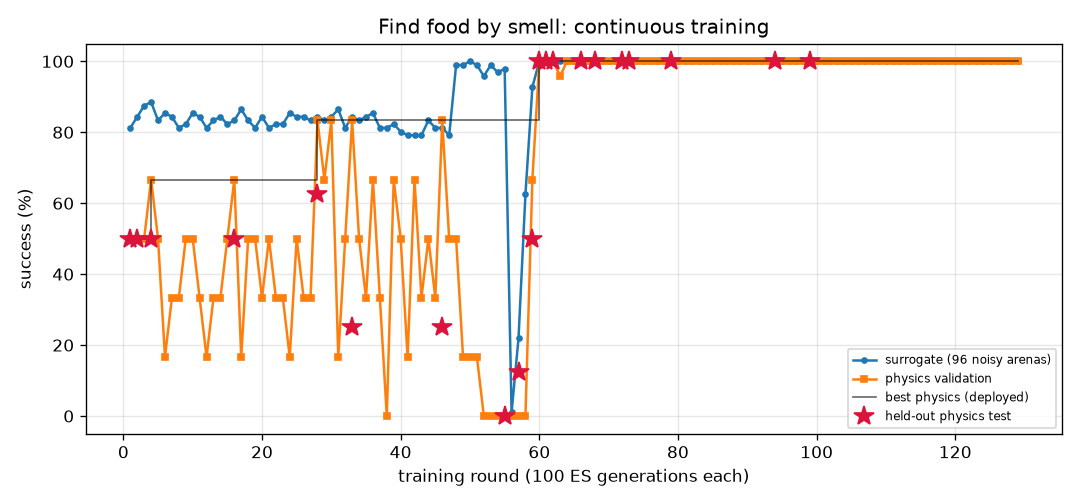
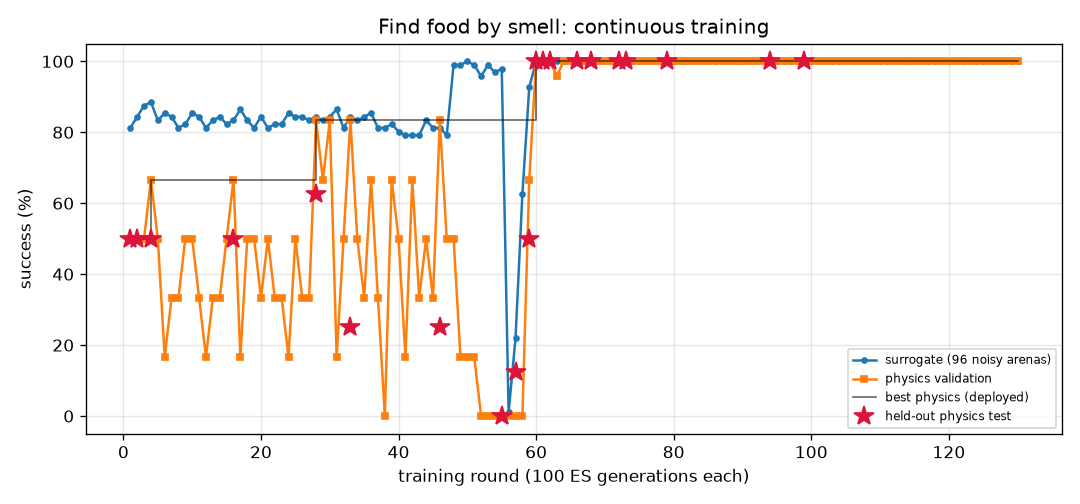
FlyLab: continuous training progress
- walk_forward: optimal, physics val 100% of 24, round 155
- turn: optimal, physics val 100% of 24, round 603
- goto: optimal, physics val 100% of 24, round 141
- odor_seek: optimal, physics val 100% of 24, round 130
- odor_avoid: optimal, physics val 100% of 24, round 576
- light_seek: optimal, physics val 100% of 24, round 325
- light_avoid: optimal, physics val 100% of 24, round 310

diff --git a/projects/09_flylab/training/turn/REPORT.md b/projects/09_flylab/training/turn/REPORT.md
@@ -1,14 +1,14 @@
 # Turn in place (`turn`) — training report
 
-*Auto-generated by `train_brains.py`, last updated 2026-10-21T20:47:12.*
+*Auto-generated by `train_brains.py`, last updated 2026-10-22T19:18:32.*
 
 ![curve](curve.png)
 
 | | |
 |---|---|
-| rounds | 595 |
-| ES generations | 59500 |
-| physics runs | 14526 |
+| rounds | 603 |
+| ES generations | 60300 |
+| physics runs | 14718 |
 | status | **optimal** |
 | best brain | round 80: physics validation **100%** on 24 arenas, surrogate 100% |
 | held-out physics test | **97%** on 32 unseen arenas (95% CI 84%-99%) (errors: [1.6, 3.3, 6.3, 3.7, 1.1, 0.4, 2.4, 2.9, 0.1, 2.6, 0.5, 2.7, 1.5, 3.1, 4.5, 0.2, 0.5, 1.1, 2.0, 4.4, 2.8, 3.2, 0.3, 2.2, 0.5, 3.0, 0.3, 5.4, 0.4, 1.0, 4.7, 10.7]) |
@@ -17,14 +17,6 @@ Physics error per arena: deg from target heading (< 20 = success).
 
 | round | level | gens | sigma | surrogate | physics val | val errors | test | note |
 |---:|---:|---:|---:|---:|---:|---|---:|---|
-| 556 | 3 | 55600 | 0.025 | 99% | 75% | [5.5, 7.0, 0.4, 2.1, 3.3, 1.6, 2.4, 0.2, 4.0, 1.3, 2.8, 1.5, 3.7, 3.8, 3.1, 1.9, 1.8, 0.2, 2.1, 0.8, 7.5, 0.7, 4.6, 3.8] |  | restart from best |
-| 557 | 3 | 55700 | 0.024 | 99% | 100% | [5.7, 9.7, 1.0, 2.6, 2.0, 2.3, 1.7, 1.5, 3.2, 1.4, 1.6, 1.9, 0.2, 4.7, 1.1, 2.9, 2.1, 2.7, 2.6, 2.8, 4.6, 0.2, 0.5, 0.8] |  |  |
-| 558 | 3 | 55800 | 0.025 | 99% | 88% | [2.9, 3.0, 7.0, 0.4, 16.1, 0.9, 8.3, 8.4, 7.7, 3.1, 5.1, 4.5, 0.7, 0.7, 4.8, 14.3, 4.8, 3.0, 8.6, 13.3, 1.6, 4.2, 7.3, 5.9] |  |  |
-| 559 | 3 | 55900 | 0.025 | 99% | 88% | [7.3, 3.4, 7.5, 3.0, 4.3, 0.2, 4.5, 6.0, 3.3, 0.0, 5.1, 1.1, 2.4, 0.7, 2.9, 0.5, 1.6, 2.1, 0.8, 1.9, 6.5, 3.9, 5.6, 6.5] |  |  |
-| 560 | 3 | 56000 | 0.025 | 99% | 83% | [1.2, 1.7, 1.4, 1.7, 1.6, 1.4, 6.5, 8.6, 5.4, 4.0, 4.2, 3.5, 4.4, 0.6, 5.5, 11.8, 3.8, 2.5, 2.1, 2.0, 3.4, 2.3, 6.5, 5.7] |  | restart from best |
-| 561 | 3 | 56100 | 0.024 | 98% | 83% | [8.2, 11.9, 4.7, 4.8, 2.5, 1.9, 4.1, 2.2, 2.0, 2.3, 2.9, 4.9, 3.1, 6.0, 0.6, 3.5, 4.5, 0.6, 2.9, 1.9, 8.4, 0.7, 1.1, 0.1] |  |  |
-| 562 | 3 | 56200 | 0.025 | 98% | 79% | [6.6, 10.2, 6.1, 2.1, 3.3, 0.0, 1.7, 0.4, 3.1, 3.2, 1.7, 2.6, 2.1, 1.5, 1.8, 0.5, 2.6, 1.7, 0.6, 1.6, 6.4, 1.5, 2.5, 6.1] |  |  |
-| 563 | 3 | 56300 | 0.025 | 97% | 92% | [7.8, 12.0, 7.6, 6.8, 4.3, 1.9, 1.3, 5.5, 0.0, 3.6, 0.6, 4.2, 1.7, 7.9, 0.3, 5.3, 4.7, 2.5, 4.6, 4.7, 9.1, 1.2, 0.9, 10.8] |  |  |
 | 564 | 3 | 56400 | 0.026 | 98% | 92% | [5.1, 9.8, 9.9, 2.8, 3.5, 2.3, 3.8, 4.6, 2.0, 0.2, 3.1, 2.8, 4.1, 4.4, 3.2, 1.6, 2.5, 1.3, 1.4, 0.1, 7.3, 0.5, 0.7, 2.1] |  | restart from best |
 | 565 | 3 | 56500 | 0.024 | 100% | 83% | [3.5, 0.1, 4.9, 0.1, 0.9, 0.0, 6.0, 7.3, 7.7, 0.2, 5.1, 0.6, 0.5, 0.3, 4.2, 2.4, 0.5, 2.4, 2.6, 3.9, 5.0, 2.4, 6.2, 8.0] |  |  |
 | 566 | 3 | 56600 | 0.024 | 99% | 71% | [6.7, 7.4, 3.7, 1.2, 2.9, 2.5, 4.3, 1.1, 5.6, 13.8, 3.7, 2.2, 0.3, 0.2, 5.4, 0.5, 2.0, 1.8, 0.0, 1.1, 5.5, 2.1, 5.0, 6.9] |  |  |
@@ -57,3 +49,11 @@ Physics error per arena: deg from target heading (< 20 = success).
 | 593 | 3 | 59300 | 0.024 | 99% | 75% | [5.4, 8.0, 7.9, 2.9, 2.0, 2.3, 3.6, 4.5, 2.7, 2.1, 3.3, 1.3, 1.8, 4.0, 3.7, 1.0, 0.6, 0.4, 4.3, 1.2, 7.3, 0.4, 5.4, 6.2] |  |  |
 | 594 | 3 | 59400 | 0.025 | 99% | 67% | [6.7, 1.2, 2.0, 0.6, 12.3, 1.4, 7.3, 3.0, 6.8, 1.3, 5.6, 0.4, 0.0, 1.6, 5.5, 2.5, 0.1, 1.5, 0.5, 0.7, 6.2, 1.3, 5.8, 5.4] |  |  |
 | 595 | 3 | 59500 | 0.025 | 99% | 83% | [4.5, 2.8, 5.4, 0.3, 0.5, 1.7, 4.9, 6.4, 5.2, 2.1, 5.0, 1.0, 0.6, 1.8, 4.2, 2.0, 1.7, 1.9, 0.5, 2.5, 5.9, 2.9, 5.3, 7.4] |  |  |
+| 596 | 3 | 59600 | 0.025 | 98% | 88% | [7.0, 8.1, 7.4, 3.0, 2.1, 0.3, 3.2, 3.5, 2.5, 0.1, 3.7, 0.2, 2.4, 5.8, 3.3, 1.1, 0.7, 0.4, 0.6, 0.8, 6.4, 0.7, 4.4, 4.3] |  | restart from best |
+| 597 | 3 | 59700 | 0.024 | 99% | 83% | [3.5, 4.1, 4.5, 0.7, 3.1, 0.5, 7.1, 0.9, 6.4, 0.1, 3.5, 0.7, 1.1, 1.6, 4.1, 2.7, 0.5, 0.2, 1.2, 2.3, 5.2, 0.0, 5.9, 2.7] |  |  |
+| 598 | 3 | 59800 | 0.025 | 99% | 92% | [6.7, 10.8, 2.8, 4.6, 6.0, 1.7, 2.3, 4.0, 2.3, 2.7, 2.6, 3.1, 2.5, 5.0, 3.2, 4.3, 3.1, 3.8, 4.3, 2.8, 7.6, 2.1, 3.9, 0.6] |  |  |
+| 599 | 3 | 59900 | 0.025 | 100% | 71% | [3.5, 3.0, 4.1, 0.6, 2.9, 0.5, 5.7, 8.5, 7.3, 0.9, 7.1, 0.1, 1.7, 1.3, 5.7, 0.7, 0.2, 3.0, 1.5, 1.8, 6.4, 1.1, 9.1, 8.6] |  |  |
+| 600 | 3 | 60000 | 0.024 | 100% | 83% | [5.9, 10.9, 8.1, 4.1, 5.1, 0.9, 2.8, 3.2, 2.9, 1.7, 1.2, 3.1, 1.6, 5.2, 2.7, 1.2, 3.8, 1.0, 0.1, 1.3, 4.4, 1.4, 3.5, 1.6] |  | restart from best |
+| 601 | 3 | 60100 | 0.024 | 100% | 67% | [6.8, 9.4, 0.2, 1.8, 3.1, 3.2, 4.4, 1.2, 4.0, 1.3, 3.6, 2.6, 0.0, 0.9, 3.2, 1.8, 2.7, 2.6, 2.0, 10.8, 4.9, 0.6, 2.6, 3.6] |  |  |
+| 602 | 3 | 60200 | 0.024 | 99% | 83% | [1.8, 5.7, 4.9, 2.9, 12.2, 0.6, 5.1, 8.9, 3.1, 14.0, 4.2, 0.1, 1.0, 2.1, 5.2, 2.1, 0.5, 1.9, 2.2, 3.1, 5.7, 1.6, 6.1, 5.2] |  |  |
+| 603 | 3 | 60300 | 0.025 | 99% | 75% | [10.1, 6.3, 9.0, 2.2, 1.7, 6.7, 7.5, 8.3, 9.3, 1.2, 6.0, 3.5, 2.1, 0.1, 4.9, 2.7, 3.6, 4.5, 4.8, 5.1, 0.9, 4.0, 8.6, 9.5] |  |  |

diff --git a/projects/09_flylab/training/odor_seek/REPORT.md b/projects/09_flylab/training/odor_seek/REPORT.md
@@ -1,14 +1,14 @@
 # Find food by smell (`odor_seek`) — training report
 
-*Auto-generated by `train_brains.py`, last updated 2026-10-22T00:06:02.*
+*Auto-generated by `train_brains.py`, last updated 2026-10-22T00:56:57.*
 
 ![curve](curve.png)
 
 | | |
 |---|---|
-| rounds | 129 |
-| ES generations | 12900 |
-| physics runs | 2462 |
+| rounds | 130 |
+| ES generations | 13000 |
+| physics runs | 2486 |
 | status | **optimal** |
 | best brain | round 99: physics validation **100%** on 24 arenas, surrogate 100% |
 | held-out physics test | **100%** on 32 unseen arenas (95% CI 89%-100%) (errors: [0.16, 0.18, 0.15, 0.21, 0.19, 0.16, 0.21, 0.2, 0.2, 0.18, 0.15, 0.18, 0.15, 0.2, 0.18, 0.19, 0.13, 0.16, 0.2, 0.2, 0.21, 0.15, 0.2, 0.17, 0.19, 0.25, 0.15, 0.19, 0.26, 0.16, 0.2, 0.26]) |
@@ -17,7 +17,6 @@ Physics error per arena: mm from target at the end (< 1.5 and standing still = s
 
 | round | level | gens | sigma | surrogate | physics val | val errors | test | note |
 |---:|---:|---:|---:|---:|---:|---|---:|---|
-| 90 | 3 | 9000 | 0.024 | 100% | 100% | [0.17, 0.22, 0.18, 0.13, 0.17, 0.22, 0.26, 0.15, 0.22, 0.15, 0.25, 0.21, 0.19, 0.26, 0.16, 0.23, 0.2, 0.17, 0.2, 0.18, 0.23, 0.12, 0.17, 0.15] |  |  |
 | 91 | 3 | 9100 | 0.024 | 100% | 100% | [0.29, 0.24, 0.3, 0.15, 0.24, 0.21, 0.17, 0.25, 0.27, 0.26, 0.24, 0.21, 0.21, 0.26, 0.22, 0.24, 0.21, 0.23, 0.26, 0.32, 0.2, 0.24, 0.31, 0.22] |  | restart from best |
 | 92 | 3 | 9200 | 0.024 | 100% | 100% | [0.25, 0.18, 0.19, 0.2, 0.27, 0.17, 0.15, 0.19, 0.15, 0.17, 0.24, 0.21, 0.24, 0.2, 0.17, 0.19, 0.16, 0.17, 0.17, 0.19, 0.21, 0.17, 0.19, 0.23] |  |  |
 | 93 | 3 | 9300 | 0.024 | 100% | 100% | [0.19, 0.24, 0.21, 0.15, 0.29, 0.14, 0.21, 0.23, 0.16, 0.29, 0.17, 0.22, 0.23, 0.16, 0.16, 0.19, 0.17, 0.18, 0.2, 0.18, 0.17, 0.19, 0.24, 0.17] |  |  |
@@ -57,3 +56,4 @@ Physics error per arena: mm from target at the end (< 1.5 and standing still = s
 | 127 | 3 | 12700 | 0.024 | 100% | 100% | [0.15, 0.25, 0.17, 0.26, 0.2, 0.2, 0.19, 0.19, 0.15, 0.2, 0.19, 0.16, 0.19, 0.2, 0.21, 0.13, 0.08, 0.14, 0.25, 0.24, 0.27, 0.13, 0.09, 0.21] |  | restart from best |
 | 128 | 3 | 12800 | 0.024 | 100% | 100% | [0.21, 0.27, 0.24, 0.27, 0.2, 0.22, 0.24, 0.25, 0.22, 0.24, 0.19, 0.25, 0.27, 0.24, 0.18, 0.2, 0.22, 0.19, 0.25, 0.22, 0.3, 0.24, 0.24, 0.25] |  |  |
 | 129 | 3 | 12900 | 0.024 | 100% | 100% | [0.11, 0.17, 0.09, 0.11, 0.23, 0.15, 0.23, 0.12, 0.13, 0.31, 0.27, 0.11, 0.26, 0.29, 0.31, 0.09, 0.16, 0.24, 0.14, 0.17, 0.19, 0.15, 0.16, 0.08] |  |  |
+| 130 | 3 | 13000 | 0.024 | 100% | 100% | [0.23, 0.26, 0.08, 0.11, 0.21, 0.27, 0.26, 0.07, 0.19, 0.1, 0.18, 0.24, 0.13, 0.18, 0.33, 0.2, 0.17, 0.14, 0.13, 0.19, 0.18, 0.2, 0.24, 0.19] |  |  |

diff --git a/README.md b/README.md
@@ -89,17 +89,17 @@ automatically as training improves it.*
 </p>
 
 <!-- BRAINS:START -->
-**Status on 2026-10-21** (rewritten daily by `daily.py`; the [dashboard](https://rohitcraftsyt.github.io/FruitFlyBrain/projects/09_flylab/dashboard/) is live):
+**Status on 2026-10-22** (rewritten daily by `daily.py`; the [dashboard](https://rohitcraftsyt.github.io/FruitFlyBrain/projects/09_flylab/dashboard/) is live):
 
 | Skill brain | Rounds | Physics validation | **Held-out physics test** (95% CI) | Fresh-arena check | Status |
 |---|---:|---:|---:|---:|---|
-| Walk forward | 152 | 100% of 24 | **100% of 32** (89%–100%) | 100% of 16 (2026-10-21) | ✅ optimal |
-| Turn in place | 593 | 100% of 24 | **97% of 32** (84%–99%) | 94% of 16 (2026-10-21) | ✅ optimal |
-| Go to a location | 138 | 100% of 24 | **100% of 32** (89%–100%) | 100% of 16 (2026-10-21) | ✅ optimal |
-| Find food by smell | 128 | 100% of 24 | **100% of 32** (89%–100%) | 100% of 16 (2026-10-21) | ✅ optimal |
-| Escape a bad smell | 569 | 100% of 24 | **97% of 32** (84%–99%) | 100% of 16 (2026-10-21) | ✅ optimal |
-| Walk toward light | 322 | 100% of 24 | **100% of 32** (89%–100%) | 100% of 16 (2026-10-21) | ✅ optimal |
-| Hide from light | 302 | 100% of 24 | **100% of 32** (89%–100%) | 100% of 16 (2026-10-21) | ✅ optimal |
+| Walk forward | 155 | 100% of 24 | **100% of 32** (89%–100%) | 100% of 16 (2026-10-22) | ✅ optimal |
+| Turn in place | 602 | 100% of 24 | **97% of 32** (84%–99%) | 100% of 16 (2026-10-22) | ✅ optimal |
+| Go to a location | 141 | 100% of 24 | **100% of 32** (89%–100%) | 100% of 16 (2026-10-22) | ✅ optimal |
+| Find food by smell | 130 | 100% of 24 | **100% of 32** (89%–100%) | 100% of 16 (2026-10-22) | ✅ optimal |
+| Escape a bad smell | 576 | 100% of 24 | **97% of 32** (84%–99%) | 100% of 16 (2026-10-22) | ✅ optimal |
+| Walk toward light | 325 | 100% of 24 | **100% of 32** (89%–100%) | 100% of 16 (2026-10-22) | ✅ optimal |
+| Hide from light | 310 | 100% of 24 | **100% of 32** (89%–100%) | 100% of 16 (2026-10-22) | ✅ optimal |
 <!-- BRAINS:END -->
 
 **How it got here** (full [engineering log](projects/09_flylab/README.md#making-skills-survive-the-jump-to-physics-engineering-log)):

diff --git a/projects/09_flylab/training/TRAINING.md b/projects/09_flylab/training/TRAINING.md
@@ -1,15 +1,15 @@
 # FlyLab brains — continuous training log
 
-*Auto-generated by `train_brains.py`, last updated 2026-10-22T00:10:59.*
+*Auto-generated by `train_brains.py`, last updated 2026-10-22T19:18:54.*
 
 Every skill has its own brain and its own training process: surrogate ES rounds, physics validation in MuJoCo, keep-the-best selection, and a held-out physics test that is never used for selection. See each skill's report for its full round-by-round history. Mastery is progressive: passing a level (100% physics validation, >=95% surrogate) doubles the validation and test arena sets; a brain is **optimal** once it holds up at level 3 (>=95% of 24 validation arenas) AND scores >=90% on the 32 held-out test arenas. Test columns show 95% Wilson confidence intervals.
 
 | skill | rounds | ES generations | physics runs | surrogate | physics val | **physics test** | status |
 |---|---:|---:|---:|---:|---:|---:|---|
 | [Walk forward](walk_forward/REPORT.md) | 155 | 15500 | 3734 | 100% | 100% of 24 | 100% of 32 (CI 89-100%) | **optimal** |
-| [Turn in place](turn/REPORT.md) | 595 | 59500 | 14526 | 100% | 100% of 24 | 97% of 32 (CI 84-99%) | **optimal** |
+| [Turn in place](turn/REPORT.md) | 603 | 60300 | 14718 | 100% | 100% of 24 | 97% of 32 (CI 84-99%) | **optimal** |
 | [Go to a location](goto/REPORT.md) | 141 | 14100 | 3270 | 100% | 100% of 24 | 100% of 32 (CI 89-100%) | **optimal** |
-| [Find food by smell](odor_seek/REPORT.md) | 129 | 12900 | 2462 | 100% | 100% of 24 | 100% of 32 (CI 89-100%) | **optimal** |
+| [Find food by smell](odor_seek/REPORT.md) | 130 | 13000 | 2486 | 100% | 100% of 24 | 100% of 32 (CI 89-100%) | **optimal** |
 | [Escape a bad smell](odor_avoid/REPORT.md) | 576 | 57600 | 11130 | 97% | 100% of 24 | 97% of 32 (CI 84-99%) | **optimal** |
 | [Walk toward light](light_seek/REPORT.md) | 325 | 32500 | 4648 | 100% | 100% of 24 | 100% of 32 (CI 89-100%) | **optimal** |
 | [Hide from light](light_avoid/REPORT.md) | 310 | 31000 | 7712 | 100% | 100% of 24 | 100% of 32 (CI 89-100%) | **optimal** |

diff --git a/projects/09_flylab/training/CHECKS.md b/projects/09_flylab/training/CHECKS.md
@@ -1,15 +1,15 @@
 # Daily fresh-arena checks
 
-*Auto-generated by `recheck.py`, last updated 2026-10-21T20:38:04.*
+*Auto-generated by `recheck.py`, last updated 2026-10-22T19:17:43.*
 
 Every day each optimal brain is re-run in MuJoCo on a new set of random arenas it has never seen. The fixed held-out test decides 'optimal' (>= 90%); these checks watch for brains that only look good on that fixed set. Anything under 80% is flagged.
 
 | skill | last check | brain round | fresh arenas | success (95% CI) | last 7 checks |
 |---|---|---:|---:|---|---|
-| Walk forward | 2026-10-21 | 116 | 16 | 100% (81%-100%) | 100% 100% 100% 100% 100% 100% 100% |
-| Turn in place | 2026-10-21 | 80 | 16 | 94% (72%-99%) | 100% 100% 100% 100% 100% 100% 94% |
-| Go to a location | 2026-10-21 | 80 | 16 | 100% (81%-100%) | 100% 100% 100% 100% 100% 100% 100% |
-| Find food by smell | 2026-10-21 | 99 | 16 | 100% (81%-100%) | 100% 100% 100% 100% 100% 100% 100% |
-| Escape a bad smell | 2026-10-21 | 373 | 16 | 100% (81%-100%) | 100% 94% 100% 100% 94% 100% 100% |
-| Walk toward light | 2026-10-21 | 295 | 16 | 100% (81%-100%) | 100% 100% 100% 100% 100% 100% 100% |
-| Hide from light | 2026-10-21 | 159 | 16 | 100% (81%-100%) | 100% 100% 100% 100% 100% 100% 100% |
+| Walk forward | 2026-10-22 | 116 | 16 | 100% (81%-100%) | 100% 100% 100% 100% 100% 100% 100% |
+| Turn in place | 2026-10-22 | 80 | 16 | 100% (81%-100%) | 100% 100% 100% 100% 94% 100% 100% |
+| Go to a location | 2026-10-22 | 80 | 16 | 100% (81%-100%) | 100% 100% 100% 100% 100% 100% 100% |
+| Find food by smell | 2026-10-22 | 99 | 16 | 100% (81%-100%) | 100% 100% 100% 100% 100% 100% 100% |
+| Escape a bad smell | 2026-10-22 | 373 | 16 | 100% (81%-100%) | 94% 100% 100% 94% 100% 100% 100% |
+| Walk toward light | 2026-10-22 | 295 | 16 | 100% (81%-100%) | 100% 100% 100% 100% 100% 100% 100% |
+| Hide from light | 2026-10-22 | 159 | 16 | 100% (81%-100%) | 100% 100% 100% 100% 100% 100% 100% |
